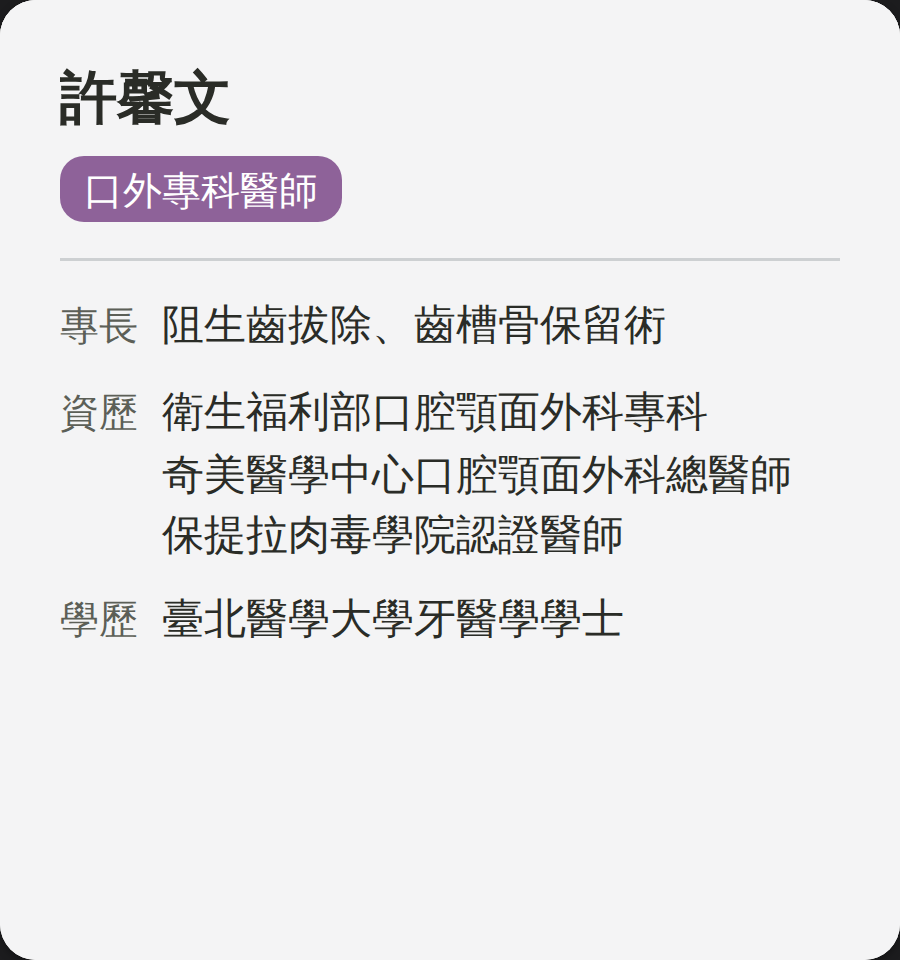
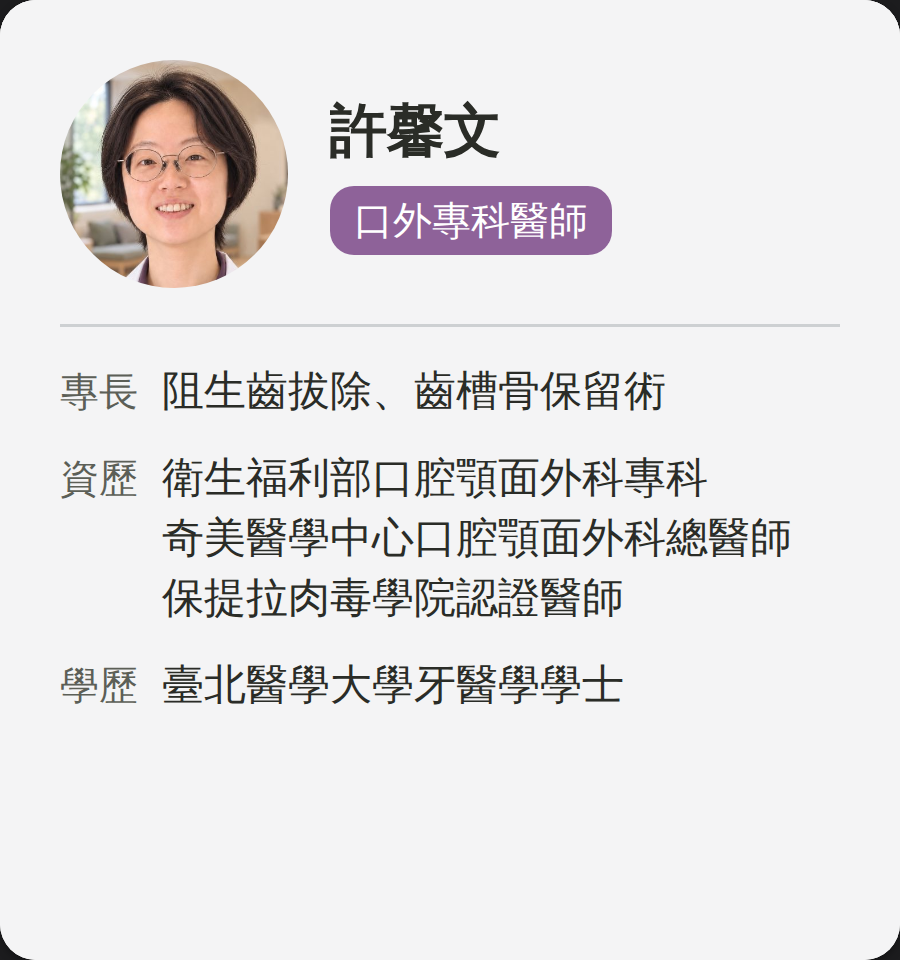
LINE 醫師介紹：林晏妤、許馨文兩位換上網站的形象照（重跑產生器）
Claude-Session: https://claude.ai/code/session_0171FLpzP9rynCiG3LZ7USdr

Changed region(s): [[0.0622, 0.0625, 0.8711, 0.75], [0.0622, 0.625, 0.1556, 0.75]]

diff --git a/preview/line-doctors/index.html b/preview/line-doctors/index.html
@@ -54,7 +54,7 @@ dl.pes dd{margin:0}
 <tbody>
 <tr><td>1</td><td>插畫太大，佔卡片六成高度</td><td class="ok">✅ 已改</td></tr>
 <tr><td>2</td><td>插畫不是醫師本人，而且九位共用兩張</td><td class="ok">✅ 已改</td></tr>
-<tr><td>3</td><td>三位還沒有照片</td><td class="ok">✅ 同網站，純文字</td></tr>
+<tr><td>3</td><td>廖立揚醫師還沒有照片</td><td class="ok">✅ 同網站，純文字</td></tr>
 <tr><td>4</td><td>換上 LINE 要誰動手</td><td class="wait">待使用者確認</td></tr>
 </tbody>
 </table>
@@ -93,19 +93,19 @@ dl.pes dd{margin:0}
 <li><p class="it">2　插畫不是醫師本人</p>
 <dl class="pes">
 <dt>問題</dt><dd>男女各一張通用插畫，九位共用。</dd>
-<dt>事件</dt><dd>網站上六位已經有本人的形象照。</dd>
-<dt>解決方案</dt><dd>直接用網站那六張照片（fangren.net 上的 JPEG），專科標籤用網站同一顆科別色。</dd>
+<dt>事件</dt><dd>網站上八位已經有本人的形象照（林晏妤、許馨文 9/24 補上）。</dd>
+<dt>解決方案</dt><dd>直接用網站那八張照片（fangren.net 上的 JPEG），專科標籤用網站同一顆科別色。</dd>
 </dl></li>
-<li><p class="it">3　三位沒有照片</p>
+<li><p class="it">3　廖立揚醫師沒有照片</p>
 <dl class="pes">
-<dt>問題</dt><dd>廖立揚、林晏妤、許馨文三位沒有照片。</dd>
-<dt>事件</dt><dd>網站上這三張是純文字卡（廖立揚醫師的照片 9/23 依要求移除）。</dd>
+<dt>問題</dt><dd>廖立揚醫師沒有照片。</dd>
+<dt>事件</dt><dd>網站上這一張是純文字卡（照片 9/23 依要求移除）。</dd>
 <dt>解決方案</dt><dd>同網站，不補插畫、不放佔位圖。之後照片上了網站，重跑一次產生器就會跟上。</dd>
 </dl></li>
 <li><p class="it">4　換上 LINE 要誰動手</p>
 <dl class="pes">
 <dt>問題</dt><dd>現在這組卡不是我們做的，不確定是哪一個後台產的。</dd>
-<dt>事件</dt><dd>新版已經是可以直接貼的 Flex Message JSON（15.4 KB，上限 50 KB）。</dd>
+<dt>事件</dt><dd>新版已經是可以直接貼的 Flex Message JSON（16.1 KB，上限 50 KB）。</dd>
 <dt>解決方案</dt><dd>待使用者確認：定案後是自己貼進 LINE 後台，還是交給廠商換。</dd>
 </dl></li>
 </ol>
